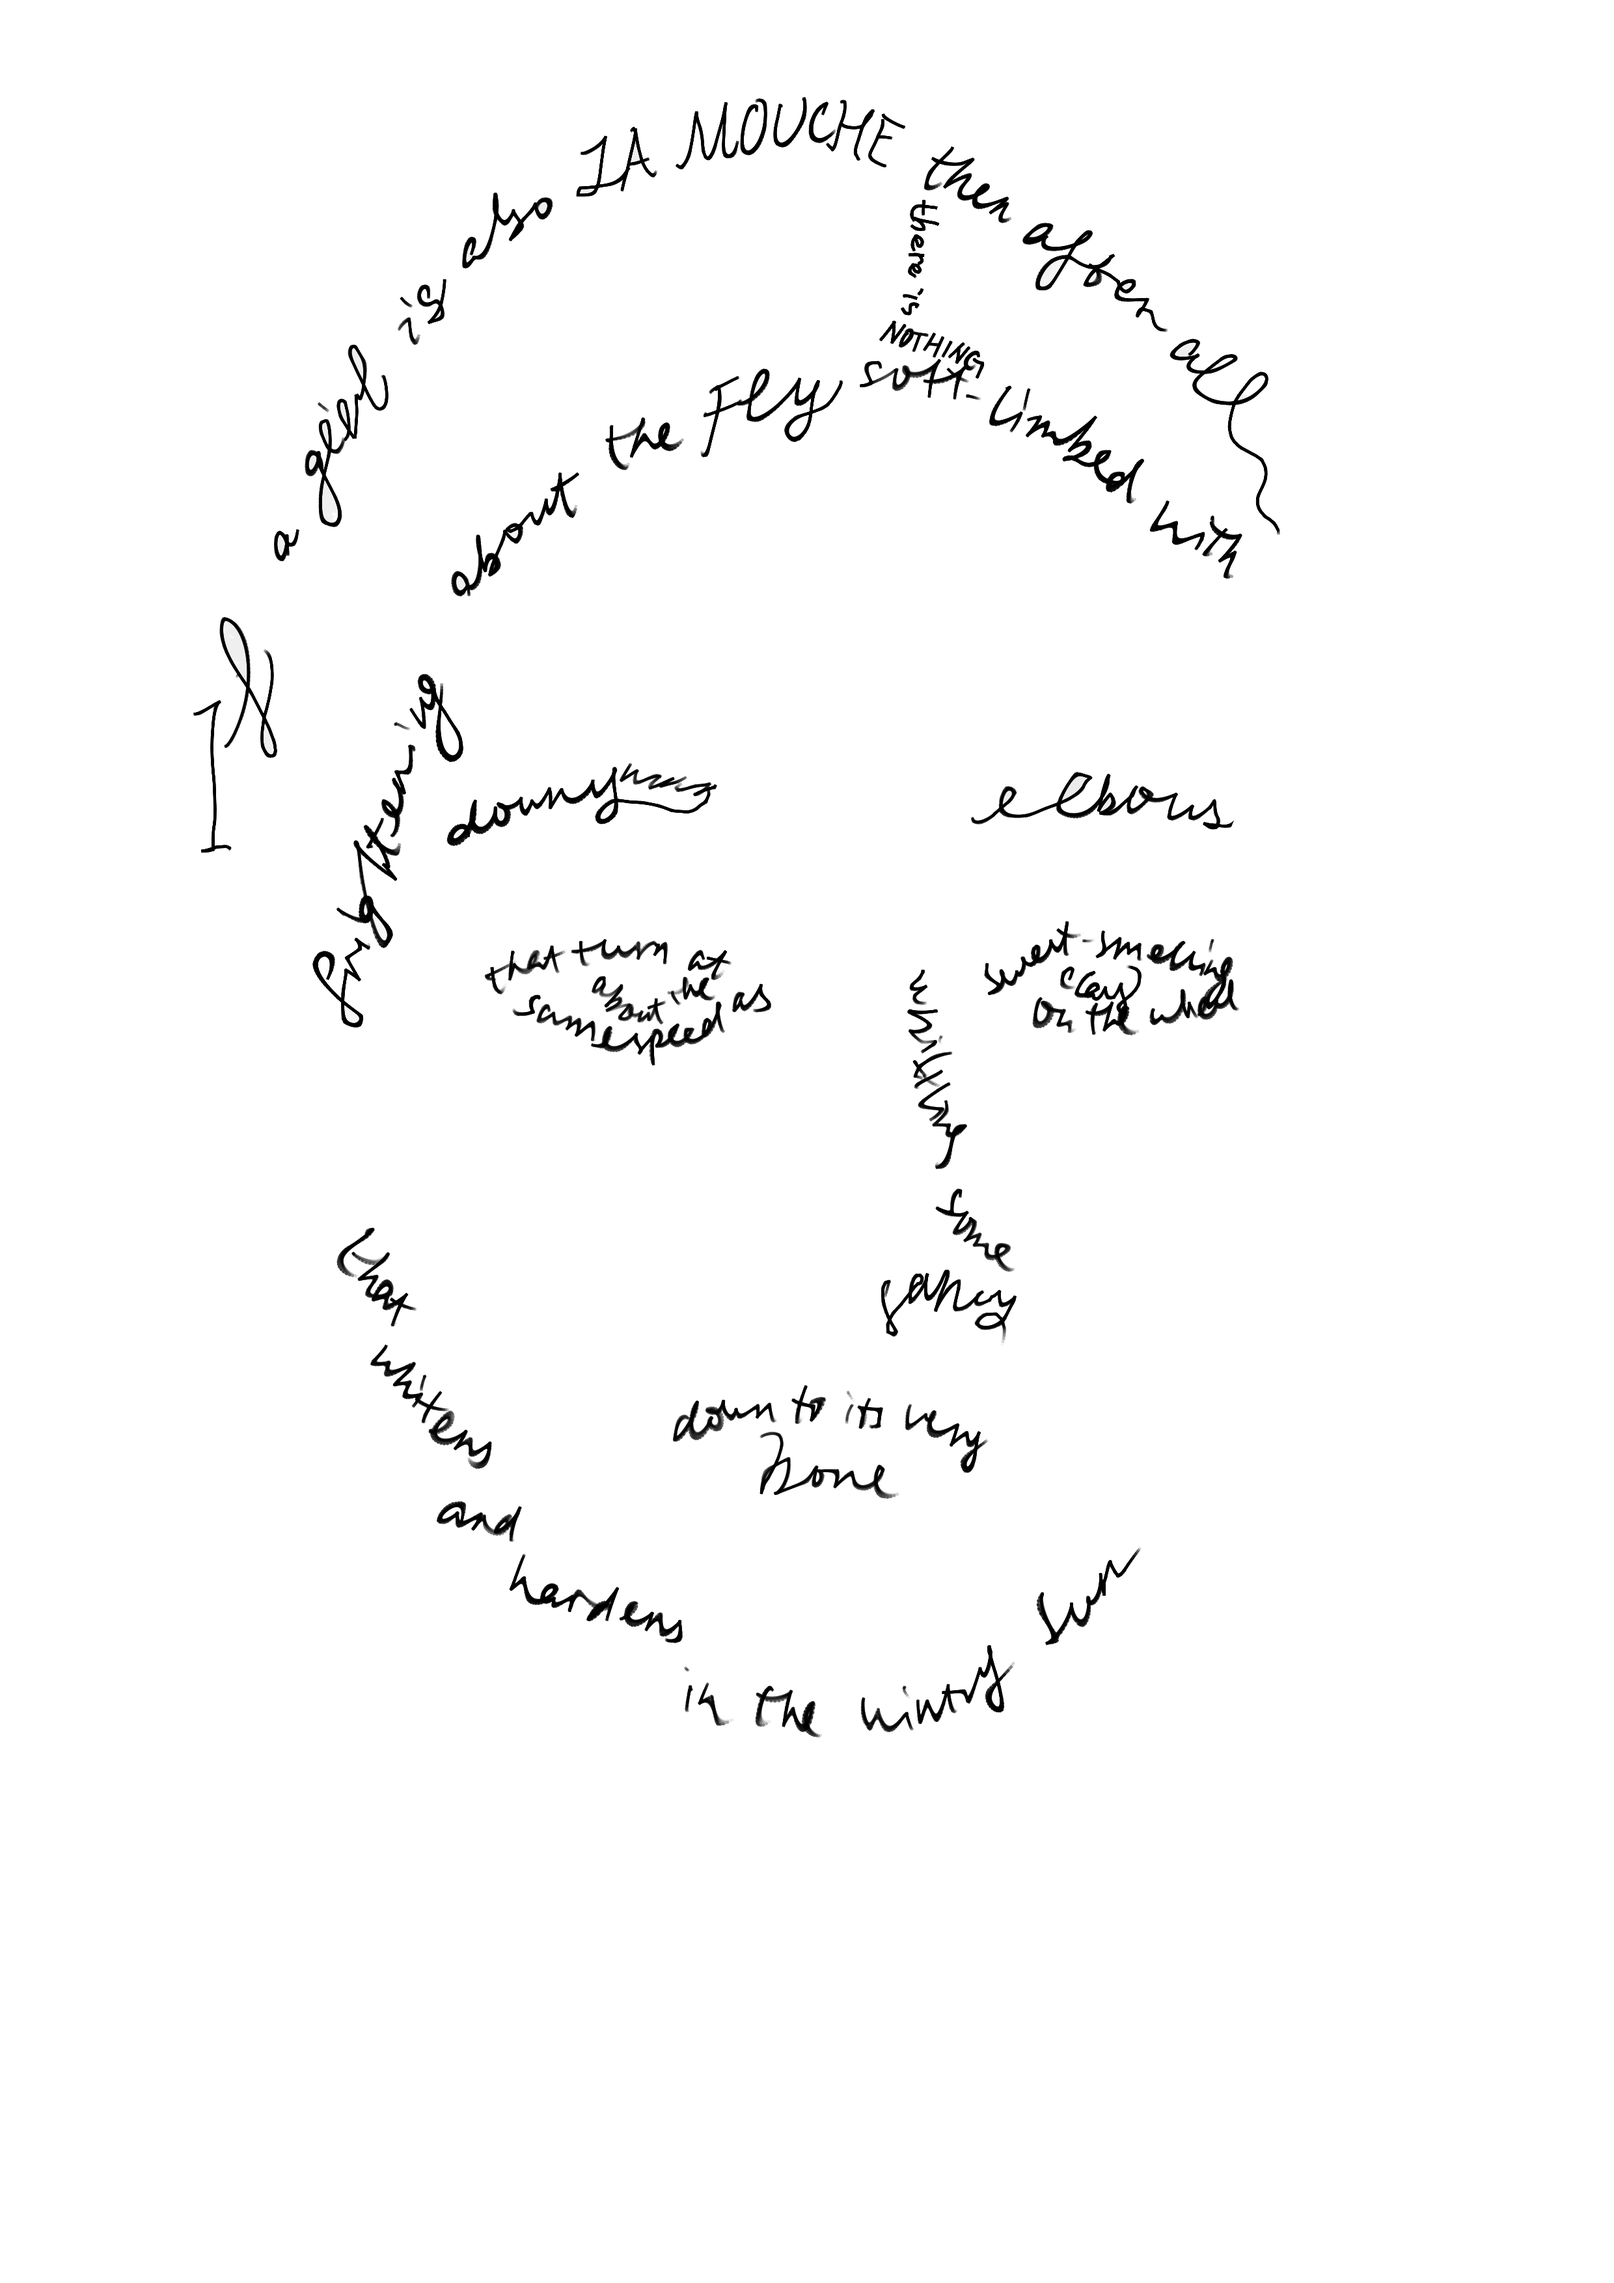
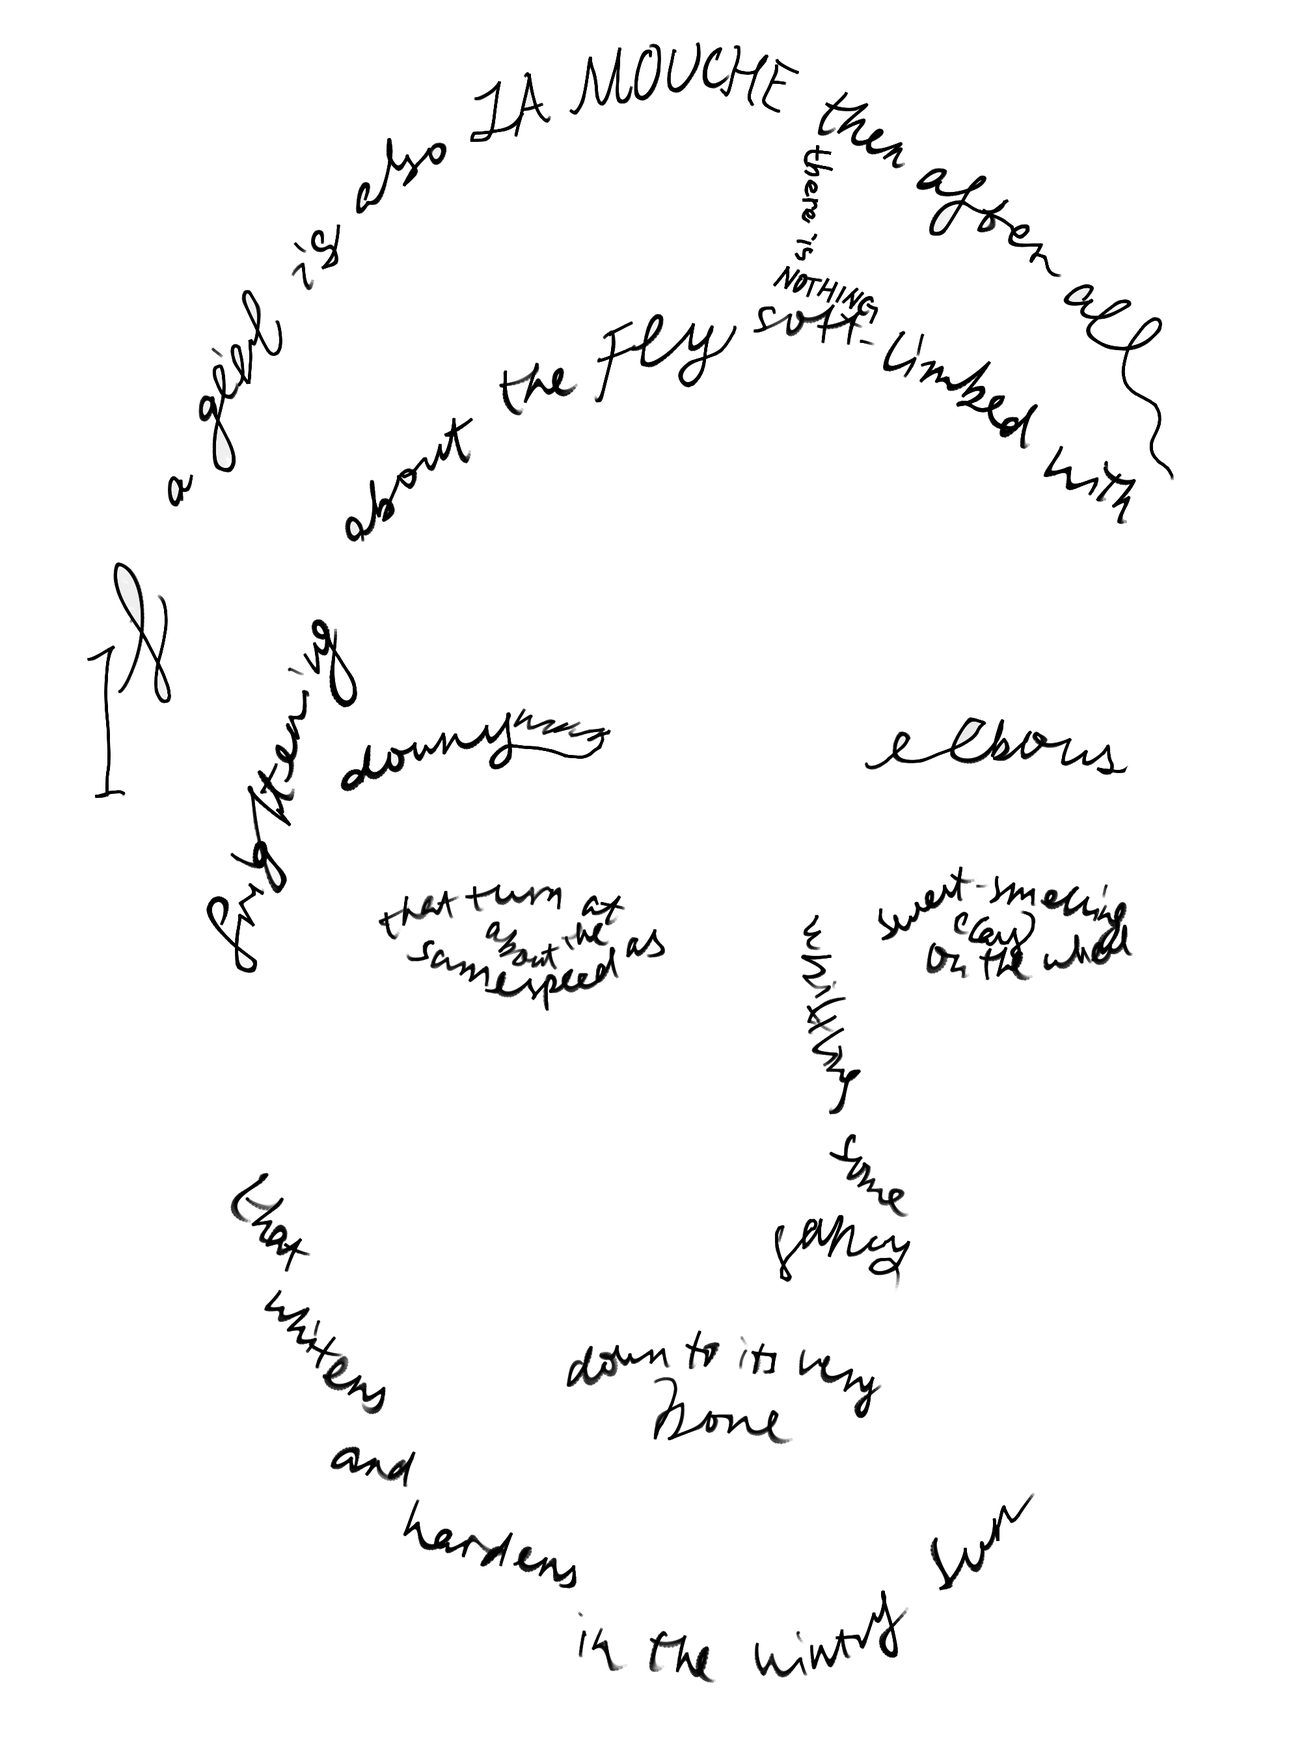
Added project covers

diff --git a/src/styles/index.css b/src/styles/index.css
@@ -328,12 +328,21 @@ text-rendering: optimizeSpeed;
     display: flex;
     justify-content: space-evenly;
     gap: 1rem;
+    margin: 2rem 0;
+}
+
+.link-card {
+    border-bottom: none;
+}
+
+.link-card::after {
+    display: none;
 }
 
 .poem-pic {
     width: 30rem;
     height: 35rem;
-    background-size: contain;
+    background-size: 90%;
     background-repeat: no-repeat;
     background-position: center;
 }
@@ -348,4 +357,5 @@ text-rendering: optimizeSpeed;
 
 .poem-pic:nth-child(3) {
     background-image: url(../assets/images/calligrammes/white3.png);
+    background-size: 80%;
 }
